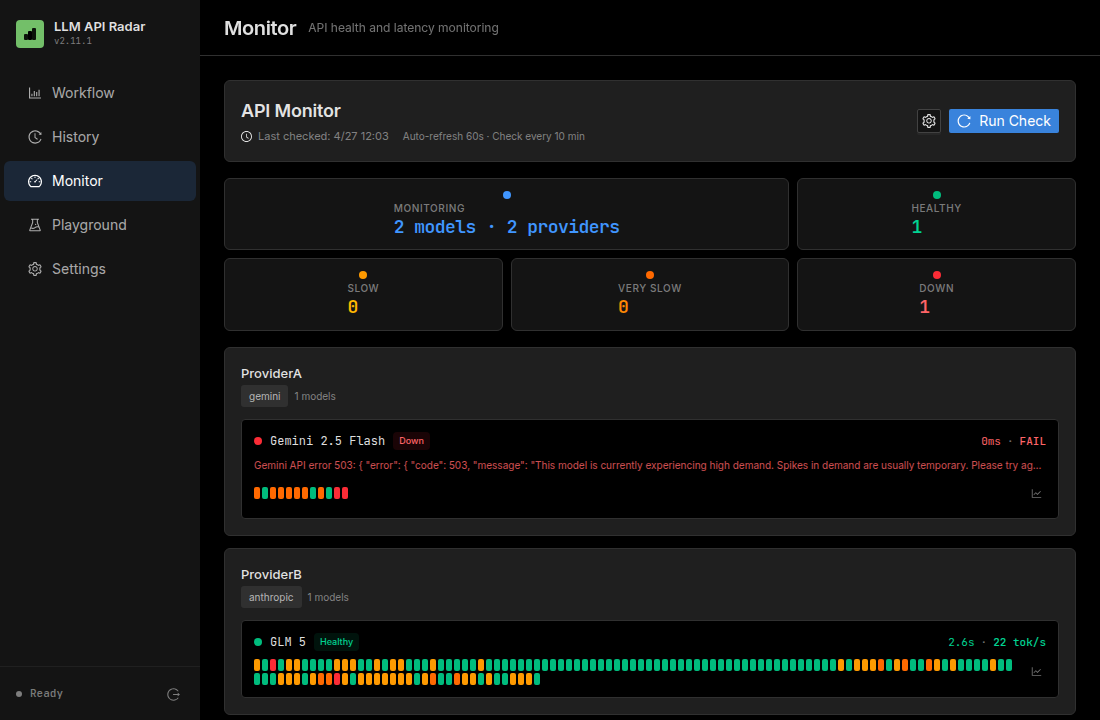
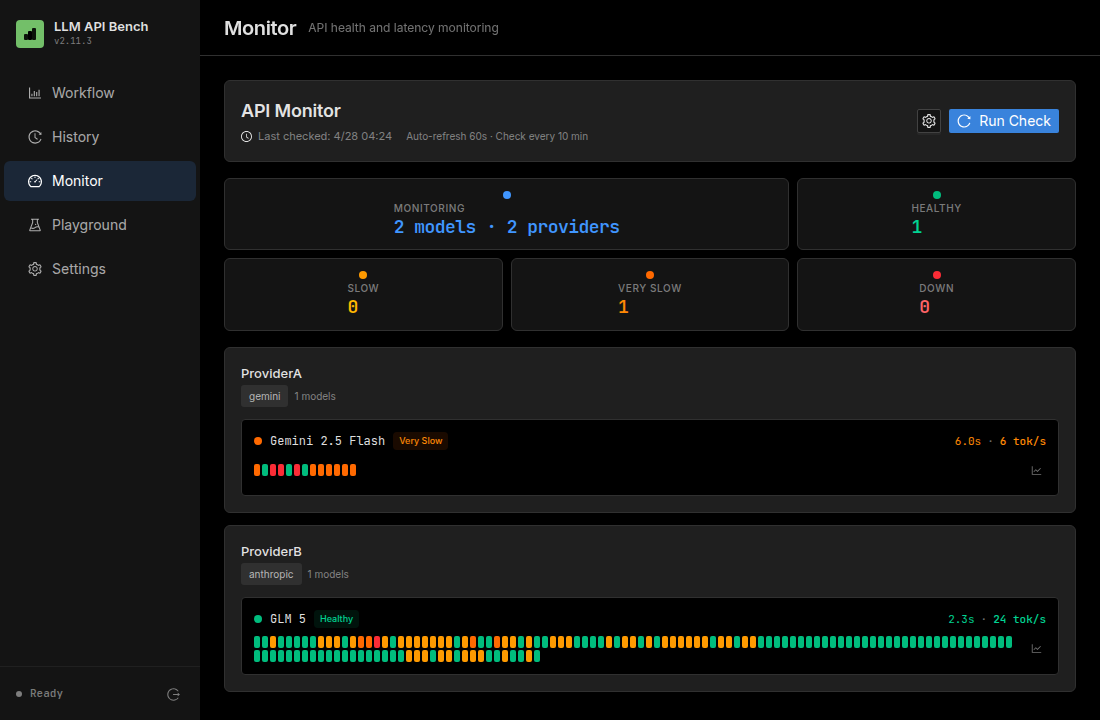
docs: regenerate screenshots and GIF with new branding and demo mode
- All screenshots and demo GIF now show "LLM API Bench" branding
- Demo mode properly activated via frontend/.env.local
- record-demo.sh --dev now sets VITE_DEMO_MODE=true for vite
- Updated CLAUDE.md with reliable demo mode setup instructions

Changed region(s): [[0.1855, 0.5806, 0.9891, 1.0], [0.3091, 0.1833, 0.5255, 0.2139], [0.0927, 0.0306, 0.1545, 0.0611]]

diff --git a/CLAUDE.md b/CLAUDE.md
@@ -22,11 +22,15 @@ Key routing rules:
 
 - All screenshots in `docs/screenshots/` must be **1100×720** pixels
 - Use puppeteer with `defaultViewport: { width: 1100, height: 720 }`
-- Always run the dev server in **Demo Mode** before capturing screenshots so Provider names, endpoints, and API keys are sanitized:
+- Always run the dev server in **Demo Mode** before capturing screenshots or recording GIFs so Provider names, endpoints, and API keys are sanitized.
+- **Preferred method**: create `frontend/.env.local` with `VITE_DEMO_MODE=true` — Vite picks this up reliably. Inline env vars (`VITE_DEMO_MODE=true npx vite`) may not propagate in all shell contexts.
   ```bash
-  cd frontend && VITE_DEMO_MODE=true npm run dev
+  echo "VITE_DEMO_MODE=true" > frontend/.env.local
+  cd frontend && npm run dev
   ```
-  Demo Mode rewrites display values only (no DB writes). Mapping: id-stable `ProviderA/B/C…`, `https://api.provider-a.example.com/v1`, `sk-****`. Implementation: `frontend/src/utils/demo.ts`.
+- `record-demo.sh --dev` starts its own Vite server — it reads `frontend/.env.local` automatically. When using `--skip-server`, ensure the external Vite server was started with demo mode.
+- Demo Mode rewrites display values only (no DB writes). Mapping: id-stable `ProviderA/B/C…`, `https://api.provider-a.example.com/v1`, `sk-****`. Implementation: `frontend/src/utils/demo.ts`.
+- **Do NOT commit** `frontend/.env.local` — it is in `.gitignore`.
 
 ## GitHub Rules
 
